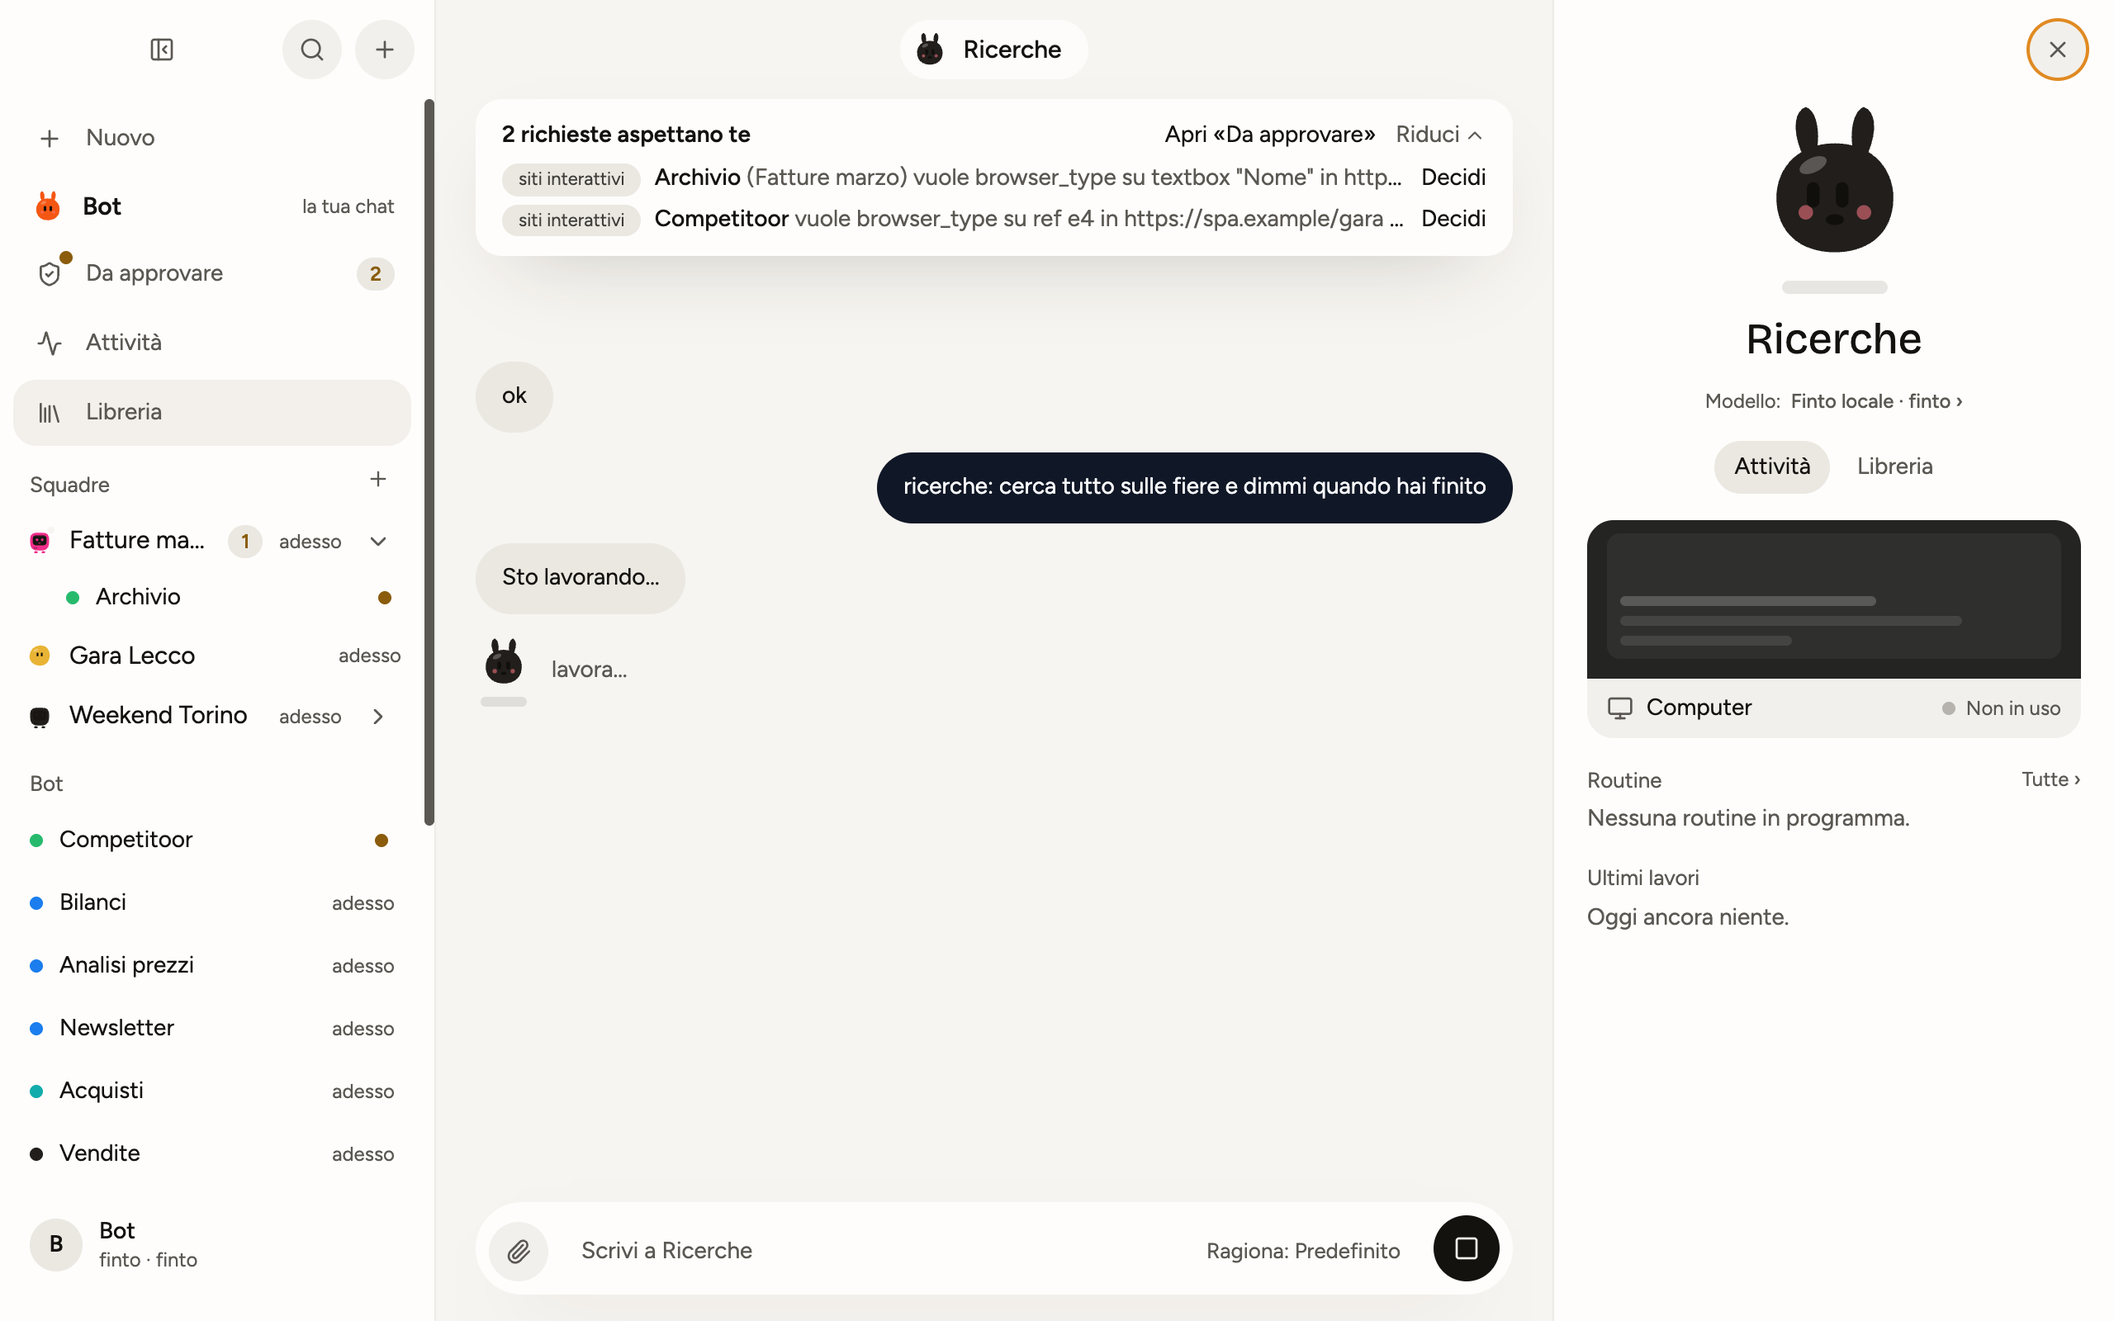
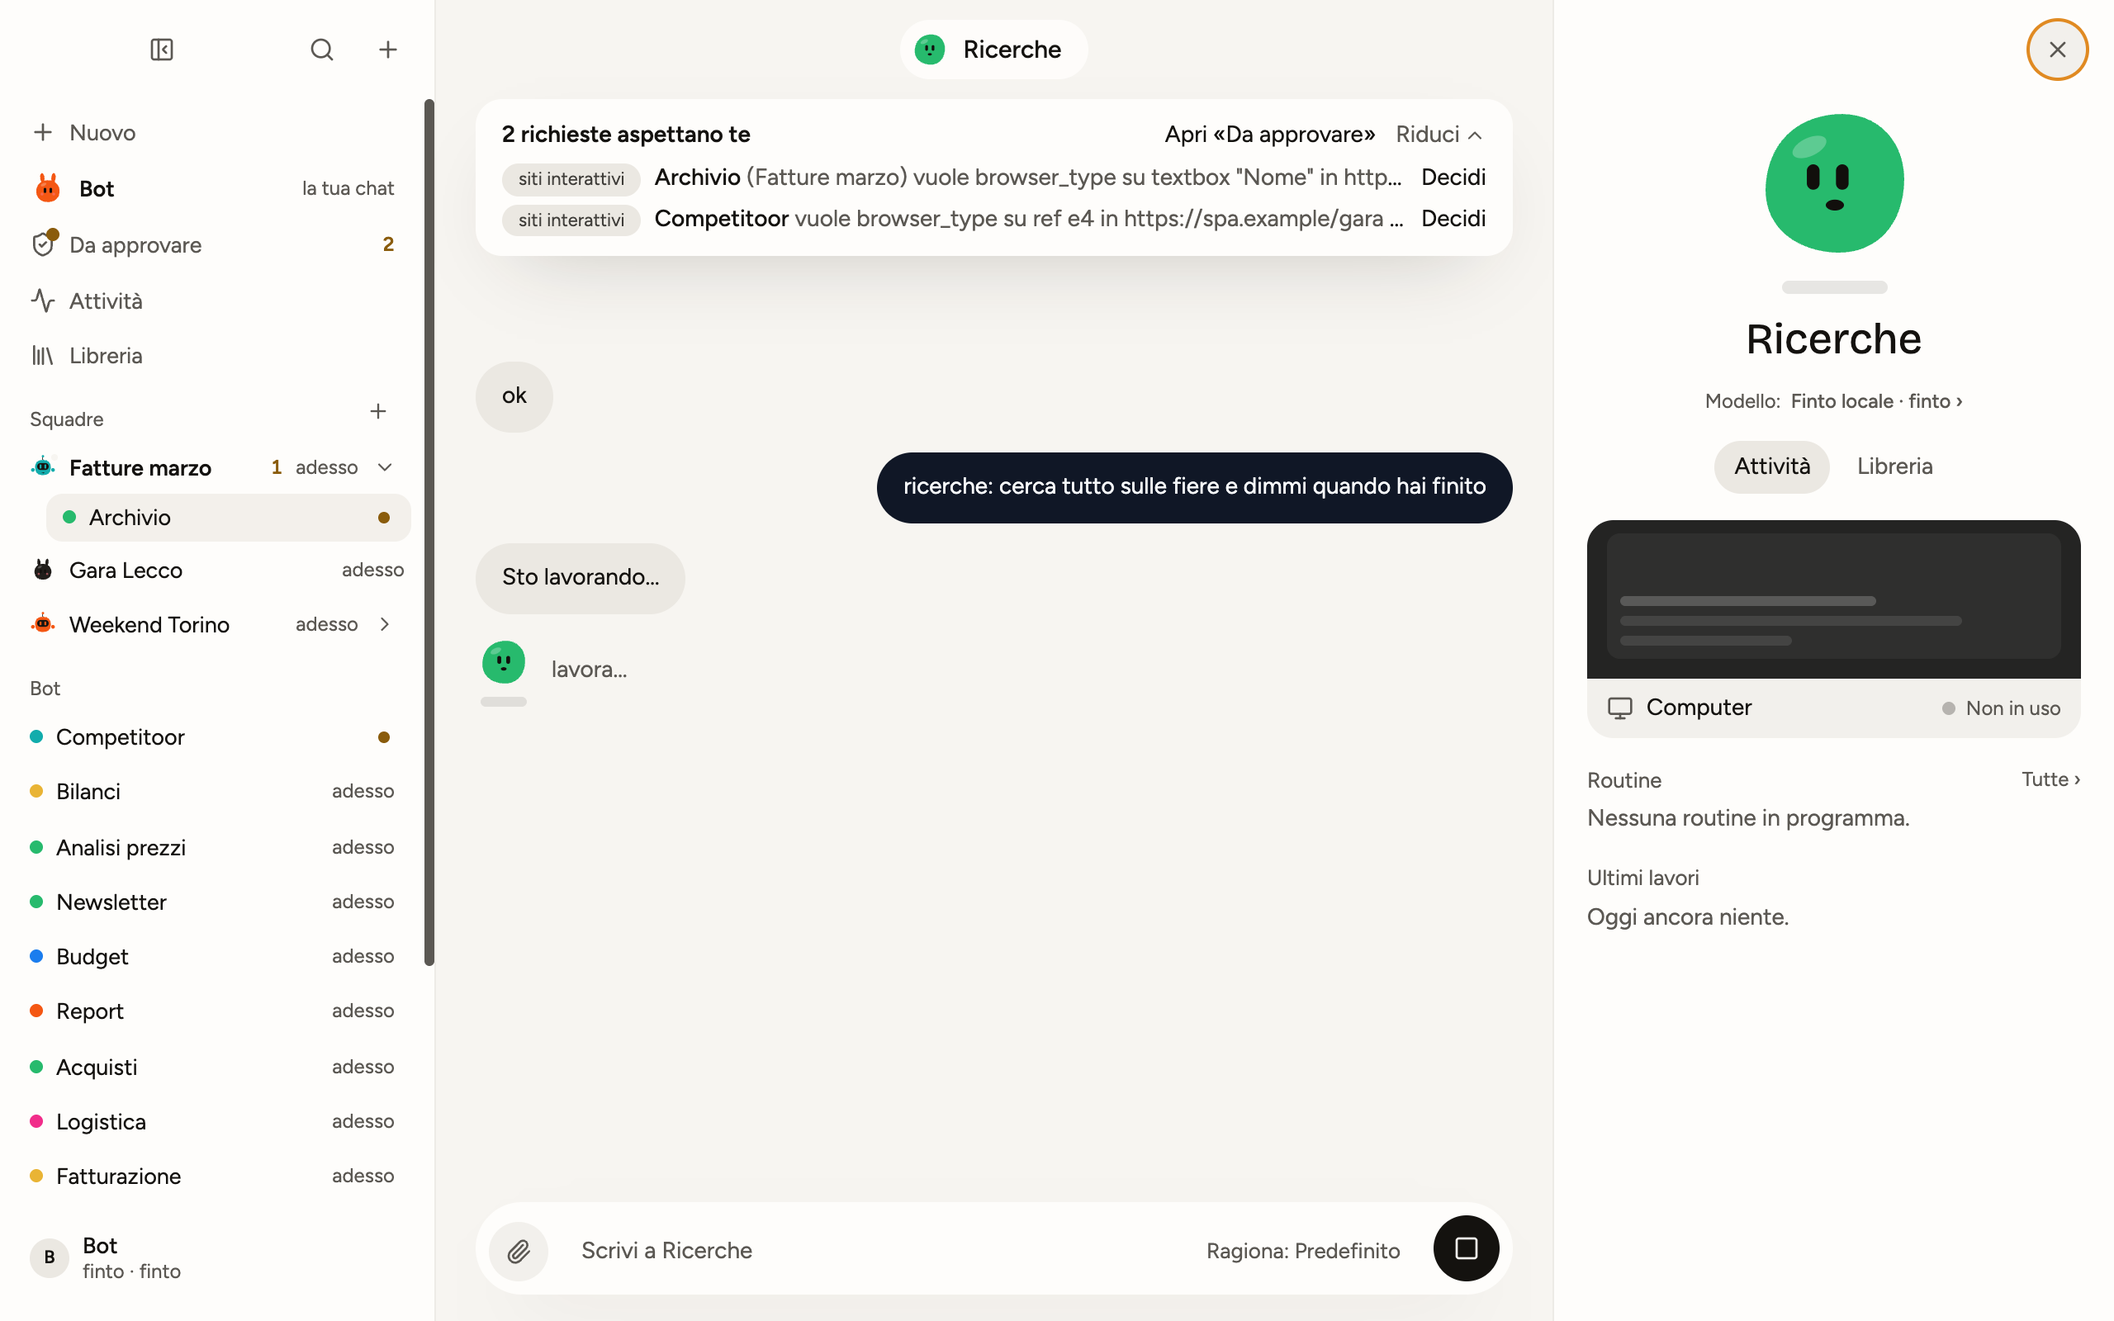
Barra sobria: dimensioni e spaziature fedeli alla tavola 6
Righe da 13,5 px alte 30 con raggio 8 (prima 14-15 px, raggio 14),
numeri arancio senza pillola, intestazioni a 12 px, pulsanti in alto
leggeri invece che cerchi pieni, icone da 16 px, membri e «Mostra tutti»
allineati ai nomi, riga dell'account più compatta. Segni di stato
riportati alle misure della tela (puntini 3 px, pallino 7 px con l'onda).

diff --git a/src/renderer/src/components/Sidebar.tsx b/src/renderer/src/components/Sidebar.tsx
@@ -93,10 +93,13 @@ const writeLS = (key: string, value: string): void => {
 }
 
 /** Titoletto semplice e grigio, niente maiuscole (S2). */
+/** Tavola 6: la riga sobria — 13,5 px, alta 30, raggio 8, padding 6/10. */
+const ROW = 'flex w-full min-h-[30px] items-center gap-2 rounded-lg px-2.5 py-1.5 text-left text-[13.5px] transition'
+
 function Title({ children, action }: { children: React.ReactNode; action?: React.ReactNode }) {
   return (
     <div className="flex items-center justify-between pr-1">
-      <p className="px-2.5 pb-1 pt-3 text-[13px] text-muted-foreground">{children}</p>
+      <p className="px-2.5 pb-1 pt-3.5 text-xs text-muted-foreground">{children}</p>
       {action}
     </div>
   )
@@ -110,12 +113,12 @@ function NewRow({ onNewBot }: { onNewBot(): void }) {
   const { t } = useLingui()
   return (
     <button
-      className="flex w-full items-center gap-2.5 rounded-[14px] px-2.5 py-2 text-left text-sm text-muted-foreground transition hover:bg-muted/60 hover:text-foreground"
+      className={`${ROW} text-muted-foreground hover:bg-muted/60 hover:text-foreground`}
       aria-label={t`Nuovo`}
       title={t`Nuovo`}
       onClick={onNewBot}
     >
-      <span className="grid size-6 shrink-0 place-items-center">
+      <span className="grid size-4 shrink-0 place-items-center">
         <Plus className="size-4" />
       </span>
       <span className="min-w-0 flex-1 truncate"><Trans>Nuovo</Trans></span>
@@ -136,19 +139,19 @@ function ApprovalsRow() {
   const setApprovalsOpen = useStore((s) => s.setApprovalsOpen)
   return (
     <button
-      className={`flex w-full items-center gap-2.5 rounded-[14px] px-2.5 py-2 text-left text-sm transition ${
+      className={`${ROW} ${
         approvalsOpen ? 'bg-muted text-foreground' : 'text-muted-foreground hover:bg-muted/60'
       }`}
       data-testid="sidebar-approvals"
       aria-label={count > 0 ? i18n.t(msg`Da approvare, ${count} richieste`) : i18n.t(msg`Da approvare`)}
       onClick={() => setApprovalsOpen(!approvalsOpen)}
     >
-      <span className="relative grid size-6 shrink-0 place-items-center">
+      <span className="relative grid size-4 shrink-0 place-items-center">
         <ShieldCheck className="size-4" />
         {count > 0 && <span className="absolute -right-0.5 -top-0.5 size-2 rounded-full bg-waiting" aria-hidden="true" />}
       </span>
       <span className="min-w-0 flex-1 truncate"><Trans>Da approvare</Trans></span>
-      {count > 0 && <span className="shrink-0 rounded-full bg-muted px-2 py-0.5 text-xs font-semibold text-waiting">{count}</span>}
+      {count > 0 && <span className="shrink-0 text-xs font-semibold tabular-nums text-waiting">{count}</span>}
     </button>
   )
 }
@@ -266,13 +269,13 @@ function MainRow({ agent, childWaiting, preview, state }: { agent: Agent; childW
   return (
     <button
       onClick={() => void select(agent.id)}
-      className={`flex w-full items-center gap-2.5 rounded-[14px] px-2.5 py-2 text-left transition ${
+      className={`flex w-full min-h-[34px] items-center gap-2 rounded-lg px-2.5 py-1.5 text-left transition ${
         agent.id === activeId && openGroupId === null ? 'bg-muted' : 'hover:bg-muted/60'
       }`}
       title={tip}
     >
       <Bot family={info.avatar.family} color={info.avatar.color} state={state} size={22} track={false} dimmed={info.dimmed} label={agent.name} />
-      <span className="min-w-0 flex-1 truncate text-[15px] font-semibold leading-tight">{agent.name}</span>
+      <span className="min-w-0 flex-1 truncate text-[13.5px] font-semibold">{agent.name}</span>
       <span className="shrink-0 text-xs text-muted-foreground"><Trans>la tua chat</Trans></span>
     </button>
   )
@@ -304,22 +307,22 @@ function TeamRows({ team, states, lastSendAt, now }: { team: SidebarTeam; states
     : team.group.name
   return (
     <div>
-      <div className={`flex items-center gap-2 rounded-[14px] pl-2 pr-1.5 text-left transition ${openGroupId === team.group.id ? 'bg-muted' : 'hover:bg-muted/60'}`}>
+      <div className={`flex items-center gap-1 rounded-lg pl-2.5 pr-1 text-left transition ${openGroupId === team.group.id ? 'bg-muted' : 'hover:bg-muted/60'}`}>
         <button
-          className="flex min-w-0 flex-1 items-center gap-2.5 py-2 text-left"
+          className="flex min-h-[30px] min-w-0 flex-1 items-center gap-2 py-1.5 text-left"
           onClick={() => openGroup(team.group.id)}
           title={tip}
         >
           <TeamRobot team={team} />
-          <span className="min-w-0 flex-1 truncate text-[15px] leading-tight">{team.group.name}</span>
+          <span className={`min-w-0 flex-1 truncate text-[13.5px] ${open || openGroupId === team.group.id ? 'font-semibold' : ''}`}>{team.group.name}</span>
           {team.waitingCount > 0 && (
-            <span className="shrink-0 rounded-full bg-muted px-2 py-0.5 text-xs font-semibold text-waiting" aria-label={i18n.t(msg`${team.waitingCount} ti aspettano`)}>{team.waitingCount}</span>
+            <span className="shrink-0 text-xs font-semibold tabular-nums text-waiting" aria-label={i18n.t(msg`${team.waitingCount} ti aspettano`)}>{team.waitingCount}</span>
           )}
           <span className="shrink-0 text-xs tabular-nums text-muted-foreground">{i18n.t(timeAgoShort(team.lastAt, now))}</span>
         </button>
         {team.members.length > 0 && (
           <button
-            className="grid size-7 shrink-0 place-items-center rounded-full text-muted-foreground transition hover:bg-muted hover:text-foreground"
+            className="grid size-6 shrink-0 place-items-center rounded-md text-muted-foreground transition hover:bg-muted hover:text-foreground"
             aria-expanded={open}
             aria-label={open ? i18n.t(msg`Chiudi i membri di ${team.group.name}`) : i18n.t(msg`Apri i membri di ${team.group.name}`)}
             onClick={() => {
@@ -328,18 +331,18 @@ function TeamRows({ team, states, lastSendAt, now }: { team: SidebarTeam; states
               writeLS(`${TEAM_OPEN_PREFIX}${team.group.id}`, next ? '1' : '0')
             }}
           >
-            <ChevronRight className={`size-4 transition-transform ${open ? 'rotate-90' : ''}`} />
+            <ChevronRight className={`size-3.5 transition-transform ${open ? 'rotate-90' : ''}`} />
           </button>
         )}
       </div>
       {open && (
-        <div className="flex flex-col pl-6">
+        <div className="flex flex-col pl-5">
           {cut.visible.map(({ member }) => (
             <MemberRow key={member.id} member={member} state={states[member.id] ?? 'idle'} lastAt={lastSendAt[member.id] ?? member.createdAt} now={now} />
           ))}
           {members.length > TEAM_MEMBER_LIMIT && (
             <button
-              className="rounded-[14px] px-2 py-1.5 pl-8 text-left text-[13px] text-muted-foreground transition hover:bg-muted/60"
+              className="rounded-lg px-2 py-1 pl-[26px] text-left text-[12.5px] text-muted-foreground transition hover:bg-muted/60"
               aria-expanded={allMembers}
               onClick={() => {
                 const next = !allMembers
@@ -365,12 +368,12 @@ function MemberRow({ member, state, lastAt, now }: { member: Agent; state: BotSt
   const tip = [typeof preview === 'string' ? preview : preview ? i18n.t(preview) : '', i18n.t(rowStateName(rowStateOf(state)))].filter(Boolean).join(' · ')
   return (
     <button
-      className="flex items-center gap-2.5 rounded-[14px] px-2 py-1.5 text-left transition hover:bg-muted/60"
+      className="flex min-h-[28px] items-center gap-2 rounded-lg px-2.5 py-1 text-left text-[13.5px] transition hover:bg-muted/60"
       onClick={() => { openGroup(null); void select(member.id) }}
       title={tip || member.name}
     >
       <ColorDot agent={member} />
-      <span className="min-w-0 flex-1 truncate text-sm">{member.name}</span>
+      <span className="min-w-0 flex-1 truncate">{member.name}</span>
       <RightSide state={state} lastAt={lastAt} now={now} />
     </button>
   )
@@ -392,13 +395,13 @@ function BotRow({ bot, now }: { bot: SidebarBot; now: number }) {
   return (
     <button
       onClick={() => void select(bot.agent.id)}
-      className={`flex w-full items-center gap-2.5 rounded-[14px] px-2.5 py-2 text-left transition ${
+      className={`${ROW} ${
         bot.agent.id === activeId && openGroupId === null ? 'bg-muted' : 'hover:bg-muted/60'
       }`}
       title={tip}
     >
       <ColorDot agent={bot.agent} />
-      <span className="min-w-0 flex-1 truncate text-sm">{bot.agent.name}</span>
+      <span className="min-w-0 flex-1 truncate">{bot.agent.name}</span>
       <RightSide state={bot.state} childWaiting={bot.childWaiting} lastAt={bot.lastAt} now={now} />
     </button>
   )
@@ -411,7 +414,7 @@ function ShowAllRow({ hidden, feminine, expanded, onToggle }: { hidden: number; 
   const total = hidden + SIDEBAR_ROW_LIMIT
   return (
     <button
-      className="rounded-[14px] px-2.5 py-1.5 text-left text-[13px] text-muted-foreground transition hover:bg-muted/60"
+      className="rounded-lg py-1 pl-[26px] pr-2.5 text-left text-[12.5px] text-muted-foreground transition hover:bg-muted/60"
       aria-expanded={expanded}
       onClick={onToggle}
     >
@@ -488,16 +491,16 @@ function AccountMenu(props?: { rail?: boolean; triggerClassName?: string }) {
         data-testid="account-menu-trigger"
         className={
           props?.triggerClassName ??
-          'flex min-w-0 flex-1 items-center gap-2.5 rounded-[14px] px-1.5 py-1.5 text-left transition hover:bg-muted/60 focus:outline-none'
+          'flex min-w-0 flex-1 items-center gap-2 rounded-lg px-2.5 py-1.5 text-left transition hover:bg-muted/60 focus:outline-none'
         }
       >
         {/* in rotaia solo l'iniziale (come il vecchio bottone), nel resto
             della barra la riga nome + modello risolto */}
-        <span className={`grid shrink-0 place-items-center rounded-full bg-muted text-sm font-semibold text-foreground ${props?.rail ? 'size-9' : 'size-8'}`}>
+        <span className={`grid shrink-0 place-items-center rounded-full bg-muted font-semibold text-foreground ${props?.rail ? 'size-9 text-sm' : 'size-6 text-[11px]'}`}>
           {main ? main.name.slice(0, 1).toUpperCase() : '·'}
         </span>
         {!props?.rail && (
-          <span className="min-w-0 text-sm">
+          <span className="min-w-0 text-[13.5px]">
             <span className="block truncate font-medium leading-tight">{main ? main.name : t`nessun bot`}</span>
             <span className="block truncate text-xs text-muted-foreground">
               {main ? (resolved ? `${resolved.providerId} · ${resolved.model}` : t`nessun modello`) : t`nessun bot`}
@@ -832,7 +835,7 @@ export function Sidebar({ layout }: { layout: LayoutResult }) {
           <div className="drag-region h-[60px] shrink-0">
             <div className="mt-3 flex h-9 items-center justify-end gap-2 px-3" style={{ paddingLeft: TRAFFIC_LIGHT_INSET }}>
               <button
-                className={`no-drag grid size-9 place-items-center rounded-full transition ${searchOpen ? 'bg-muted text-foreground' : 'bg-muted/60 text-muted-foreground hover:text-foreground'}`}
+                className={`no-drag grid size-8 place-items-center rounded-lg transition ${searchOpen ? 'bg-muted text-foreground' : 'text-muted-foreground hover:bg-muted/60 hover:text-foreground'}`}
                 aria-label={t`Cerca`}
                 title={t`Cerca`}
                 onClick={() => {
@@ -845,7 +848,7 @@ export function Sidebar({ layout }: { layout: LayoutResult }) {
               {/* B2 (fase beta.4): il «+» apre SUBITO il dialogo «Nuovo» (come
                   la voce Nuovo della barra, che la tavola 6 mette in cima) */}
               <button
-                className="no-drag grid size-9 place-items-center rounded-full bg-muted/60 text-muted-foreground transition hover:text-foreground"
+                className="no-drag grid size-8 place-items-center rounded-lg text-muted-foreground transition hover:bg-muted/60 hover:text-foreground"
                 aria-label={t`Crea`}
                 title={t`Crea`}
                 onClick={() => setNewBotOpen(true)}
@@ -876,7 +879,7 @@ export function Sidebar({ layout }: { layout: LayoutResult }) {
           {/* pt-1 (Q3): il primo contenuto parte a 64 px come il primo messaggio.
               Le voci fisse in cima, nell'ordine della tavola 6: Nuovo, Bot (la
               tua chat), Da approvare, Attività, Libreria (salgono dal fondo) */}
-          <nav className="flex-1 space-y-0.5 overflow-y-auto scroll-thin px-2 pb-2 pt-1">
+          <nav className="flex-1 space-y-px overflow-y-auto scroll-thin px-2 pb-2 pt-1">
             <NewRow onNewBot={() => setNewBotOpen(true)} />
             {model.main && (
               <MainRow
@@ -888,23 +891,23 @@ export function Sidebar({ layout }: { layout: LayoutResult }) {
             )}
             <ApprovalsRow />
             <button
-              className={`flex w-full items-center gap-2.5 rounded-[14px] px-2.5 py-2 text-left text-sm transition ${
+              className={`${ROW} ${
                 activityOpen ? 'bg-muted text-foreground' : 'text-muted-foreground hover:bg-muted/60'
               }`}
               onClick={() => { setActivityOpen(!activityOpen); if (!activityOpen) openLibrary(null) }}
             >
-              <span className="grid size-6 shrink-0 place-items-center">
+              <span className="grid size-4 shrink-0 place-items-center">
                 <ActivityIcon className="size-4" />
               </span>
               <span className="min-w-0 flex-1 truncate"><Trans>Attività</Trans></span>
             </button>
             <button
-              className={`flex w-full items-center gap-2.5 rounded-[14px] px-2.5 py-2 text-left text-sm transition ${
+              className={`${ROW} ${
                 openLibraryId !== null ? 'bg-muted text-foreground' : 'text-muted-foreground hover:bg-muted/60'
               }`}
               onClick={() => { openLibraryId === null ? openLibrary('') : openLibrary(null); if (openLibraryId === null) setActivityOpen(false) }}
             >
-              <span className="grid size-6 shrink-0 place-items-center">
+              <span className="grid size-4 shrink-0 place-items-center">
                 <LibraryIcon className="size-4" />
               </span>
               <span className="min-w-0 flex-1 truncate"><Trans>Libreria</Trans></span>
@@ -957,7 +960,7 @@ export function Sidebar({ layout }: { layout: LayoutResult }) {
 
           {/* fase barra-sobria (R1): in fondo CHI SEI, il modello e
               l'ingranaggio — tutto nell'AccountMenu (tavola 6) */}
-          <div className="mb-4 flex h-[60px] shrink-0 items-center px-3">
+          <div className="mb-3 flex h-[52px] shrink-0 items-center px-2">
             <AccountMenu />
           </div>
         </>

diff --git a/src/renderer/src/styles.css b/src/renderer/src/styles.css
@@ -327,12 +327,13 @@
 
 /* il segno a destra delle righe di bot e membri */
 .side-sign { display: inline-flex; align-items: center; justify-content: flex-end; min-width: 16px; }
-.side-dots { display: inline-flex; align-items: flex-end; gap: 3px; height: 12px; }
-.side-dot { width: 4px; height: 4px; border-radius: 9999px; background: var(--bot-c4); animation: bot-dot 1s ease-in-out infinite; }
+.side-dots { display: inline-flex; align-items: center; gap: 2px; height: 12px; }
+.side-dot { width: 3px; height: 3px; border-radius: 9999px; background: var(--bot-c4); animation: bot-dot 1.1s ease-in-out infinite; }
 /* aspetta te: pallino arancio con l'onda che si allarga piano */
-.side-wait { position: relative; display: inline-grid; place-items: center; width: 16px; height: 16px; }
-.side-wait-dot { width: 8px; height: 8px; border-radius: 9999px; background: var(--waiting); }
-.side-wait-wave { position: absolute; inset: -2px; border-radius: 9999px; border: 2px solid var(--waiting); opacity: 0; animation: bot-wave 1.6s ease-out infinite; }
+.side-wait { position: relative; display: inline-grid; place-items: center; width: 14px; height: 14px; }
+.side-wait-dot { width: 7px; height: 7px; border-radius: 9999px; background: var(--waiting); }
+.side-wait-wave { position: absolute; inset: 3.5px; border-radius: 9999px; border: 1.5px solid var(--waiting); opacity: 0; animation: bot-wave-side 1.6s ease-out infinite; }
+@keyframes bot-wave-side { 0% { transform: scale(1); opacity: .7; } 100% { transform: scale(2.2); opacity: 0; } }
 /* finito: arco felice verde con UN saltello, una volta */
 .side-done { animation: bot-hop .7s cubic-bezier(.3,1.6,.5,1) 1; }
 
@@ -350,7 +351,7 @@
 .rail-sign .side-dots { gap: 2px; height: 8px; }
 .rail-sign .side-wait { width: 10px; height: 10px; }
 .rail-sign .side-wait-dot { width: 5px; height: 5px; }
-.rail-sign .side-wait-wave { inset: -1px; }
+.rail-sign .side-wait-wave { inset: 2.5px; }
 .rail-sign svg.side-done { width: 10px; height: 7px; }
 
 /* finestra nascosta (minimizzata o in altro spazio): le animazioni CSS si
